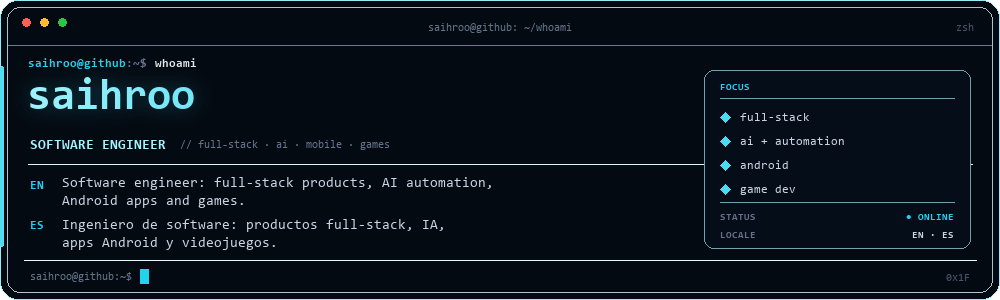
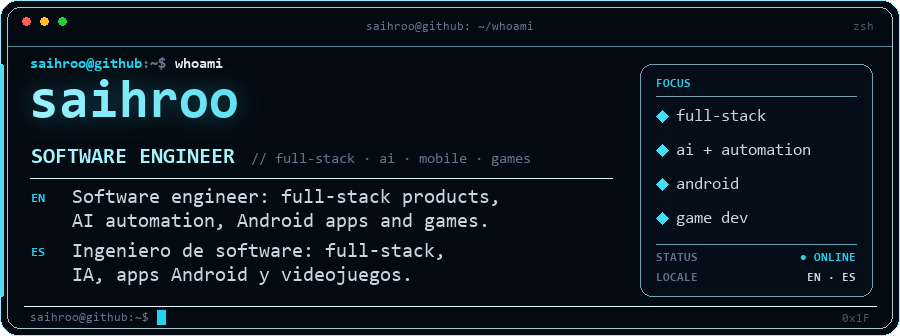
style: enlarge text in hero and whoami for 530px readme

Changed region(s): [[0.0, 0.0, 1.0, 1.0]]

diff --git a/make_assets.py b/make_assets.py
@@ -159,7 +159,7 @@ def build_avatar(size=204, pixels=102):
 # Hero banner
 # ---------------------------------------------------------------------------
 
-HERO_W, HERO_H = 1000, 300
+HERO_W, HERO_H = 900, 300
 HERO_FRAMES = 24
 HERO_MS = 100
 
@@ -168,9 +168,9 @@ def build_hero():
     name_font = font(FONT_BOLD, 74)
     prompt_font = font(FONT_BOLD, 13)
     meta_font = font(FONT_REG, 12)
-    role_font = font(FONT_BOLD, 15)
-    desc_font = font(FONT_REG, 14)
-    status_font = font(FONT_REG, 12)
+    role_font = font(FONT_BOLD, 24)
+    desc_font = font(FONT_REG, 21)
+    status_font = font(FONT_REG, 17)
 
     card = vertical_gradient((HERO_W, HERO_H), BG_TOP, BG_BOTTOM).convert("RGBA")
     draw = ImageDraw.Draw(card)
@@ -221,37 +221,37 @@ def build_hero():
     name_glow_mask = name_mask.filter(ImageFilter.GaussianBlur(14))
 
     # copy
-    draw.text((36, 181), "SOFTWARE ENGINEER", font=role_font, fill=CYAN_LIGHT)
+    draw.text((36, 174), "SOFTWARE ENGINEER", font=role_font, fill=CYAN_LIGHT)
     draw.text(
-        (37, 207),
-        "Full-Stack  ·  AI + Automation  ·  Android  ·  Game Dev",
+        (37, 206),
+        "Full-Stack · AI · Android · Game Dev",
         font=desc_font,
         fill=(148, 163, 184),
     )
-    draw.line([(36, 232), (560, 232)], fill=(34, 211, 238, 35))
-    draw.text((38, 248), ">", font=status_font, fill=CYAN)
-    draw.text((52, 248), "stack", font=status_font, fill=SLATE_DARK)
+    draw.line([(36, 238), (540, 238)], fill=(34, 211, 238, 35))
+    draw.text((38, 252), ">", font=status_font, fill=CYAN)
+    draw.text((53, 252), "stack", font=status_font, fill=SLATE_DARK)
     draw.text(
-        (92, 248),
+        (106, 252),
         "TypeScript · Kotlin · Python · C# · Luau",
         font=status_font,
         fill=(203, 213, 225),
     )
 
     # decorative bits
-    draw.text((636, 82), "{ }", font=font(FONT_BOLD, 18), fill=(103, 232, 249, 120))
-    draw.text((648, 214), "=>", font=font(FONT_BOLD, 15), fill=(129, 140, 248, 110))
-    draw.text((660, 250), "0x1F", font=font(FONT_REG, 11), fill=(100, 116, 139, 130))
+    draw.text((568, 84), "{ }", font=font(FONT_BOLD, 18), fill=(103, 232, 249, 120))
+    draw.text((580, 214), "=>", font=font(FONT_BOLD, 15), fill=(129, 140, 248, 110))
+    draw.text((592, 250), "0x1F", font=font(FONT_REG, 11), fill=(100, 116, 139, 130))
     draw.text(
         (HERO_W - 32, 270),
         "locale: en / es",
-        font=font(FONT_REG, 10),
+        font=font(FONT_REG, 12),
         fill=(71, 85, 105),
         anchor="ra",
     )
 
     # avatar
-    cx, cy = 842, 168
+    cx, cy = 752, 168
     avatar, avatar_mask = build_avatar()
     ax, ay = cx - avatar.width // 2, cy - avatar.height // 2
 
@@ -280,13 +280,13 @@ def build_hero():
     rd.text(
         (cx - 120, cy - 108),
         "ID 00",
-        font=font(FONT_REG, 10),
+        font=font(FONT_REG, 12),
         fill=(100, 116, 139, 190),
     )
     rd.text(
         (cx + 120, cy - 108),
         "● ONLINE",
-        font=font(FONT_REG, 10),
+        font=font(FONT_REG, 12),
         fill=CYAN + (170,),
         anchor="ra",
     )
@@ -402,18 +402,19 @@ def build_hero():
 # Whoami card
 # ---------------------------------------------------------------------------
 
-WHO_W, WHO_H = 1000, 300
+WHO_W, WHO_H = 900, 336
 
 
 def build_whoami():
-    prompt_font = font(FONT_BOLD, 12)
-    name_font = font(FONT_BOLD, 44)
-    role_font = font(FONT_BOLD, 14)
-    body_font = font(FONT_REG, 14)
-    tag_font = font(FONT_BOLD, 12)
-    meta_font = font(FONT_REG, 11)
-    focus_font = font(FONT_REG, 12)
-    label_font = font(FONT_BOLD, 10)
+    prompt_font = font(FONT_BOLD, 15)
+    name_font = font(FONT_BOLD, 54)
+    role_font = font(FONT_BOLD, 22)
+    sub_font = font(FONT_REG, 15)
+    body_font = font(FONT_REG, 20)
+    tag_font = font(FONT_BOLD, 13)
+    meta_font = font(FONT_REG, 12)
+    focus_font = font(FONT_REG, 17)
+    label_font = font(FONT_BOLD, 12)
 
     img = Image.new("RGBA", (WHO_W, WHO_H), (0, 0, 0, 0))
     draw = ImageDraw.Draw(img)
@@ -431,113 +432,107 @@ def build_whoami():
         outline=(21, 94, 117, 90),
         width=1,
     )
-    draw.line([(8, 45), (WHO_W - 9, 45)], fill=(22, 78, 99, 180))
+    draw.line([(8, 46), (WHO_W - 9, 46)], fill=(22, 78, 99, 180))
 
     for cx, color in ((26, (255, 95, 87)), (44, (254, 188, 46)), (62, (40, 200, 64))):
-        draw.ellipse([cx - 4, 18, cx + 4, 26], fill=color)
+        draw.ellipse([cx - 4, 17, cx + 4, 25], fill=color)
     draw.text(
-        (WHO_W / 2, 22),
+        (WHO_W / 2, 21),
         "saihroo@github: ~/whoami",
         font=meta_font,
         fill=(100, 116, 139),
         anchor="ma",
     )
-    draw.text((WHO_W - 26, 22), "zsh", font=meta_font, fill=(71, 85, 105), anchor="ra")
+    draw.text((WHO_W - 26, 21), "zsh", font=meta_font, fill=(71, 85, 105), anchor="ra")
 
     # accent rail
-    draw.rounded_rectangle([0, 66, 3, 246], radius=2, fill=CYAN + (200,))
+    draw.rounded_rectangle([0, 64, 3, 296], radius=2, fill=CYAN + (200,))
 
     # prompt
-    draw.text((28, 58), "saihroo@github", font=prompt_font, fill=CYAN)
+    draw.text((30, 56), "saihroo@github", font=prompt_font, fill=CYAN)
     prompt_w = draw.textlength("saihroo@github", font=prompt_font)
-    draw.text((28 + prompt_w, 58), ":~$", font=prompt_font, fill=SLATE)
-    cmd_x = 28 + prompt_w + draw.textlength(":~$", font=prompt_font) + 8
-    draw.text((cmd_x, 58), "whoami", font=prompt_font, fill=TEXT)
+    draw.text((30 + prompt_w, 56), ":~$", font=prompt_font, fill=SLATE)
+    cmd_x = 30 + prompt_w + draw.textlength(":~$", font=prompt_font) + 9
+    draw.text((cmd_x, 56), "whoami", font=prompt_font, fill=TEXT)
 
     # name
-    name_mask = text_mask((WHO_W, WHO_H), (27, 76), "saihroo", name_font)
+    name_mask = text_mask((WHO_W, WHO_H), (29, 76), "saihroo", name_font)
     name_grad = gradient_fill((WHO_W, WHO_H), [CYAN_LIGHT, CYAN, CYAN_MID])
-    name_glow = name_mask.filter(ImageFilter.GaussianBlur(10))
+    name_glow = name_mask.filter(ImageFilter.GaussianBlur(12))
     glow_color = Image.new("RGBA", img.size, CYAN + (255,))
-    glow_color.putalpha(name_glow.point(lambda v: int(v * 0.32)))
+    glow_color.putalpha(name_glow.point(lambda v: int(v * 0.34)))
     img.alpha_composite(glow_color)
     img.paste(name_grad, (0, 0), name_mask)
 
-    # role
-    draw.text((30, 138), "SOFTWARE ENGINEER", font=role_font, fill=CYAN_LIGHT)
+    # role + subtitle
+    draw.text((31, 146), "SOFTWARE ENGINEER", font=role_font, fill=CYAN_LIGHT)
     role_w = draw.textlength("SOFTWARE ENGINEER", font=role_font)
     draw.text(
-        (30 + role_w + 14, 139),
+        (31 + role_w + 16, 151),
         "// full-stack · ai · mobile · games",
-        font=meta_font,
+        font=sub_font,
         fill=SLATE,
     )
-    draw.line([(28, 164), (972, 164)], fill=(34, 211, 238, 40))
+    draw.line([(30, 178), (612, 178)], fill=(34, 211, 238, 45))
 
     # bilingual bio
-    draw.text((30, 180), "EN", font=tag_font, fill=CYAN)
+    draw.text((31, 192), "EN", font=tag_font, fill=CYAN)
     draw.text(
-        (62, 176),
-        "Software engineer: full-stack products, AI automation,",
+        (72, 188),
+        "Software engineer: full-stack products,",
         font=body_font,
         fill=(203, 213, 225),
     )
     draw.text(
-        (62, 194),
-        "Android apps and games.",
+        (72, 212),
+        "AI automation, Android apps and games.",
         font=body_font,
         fill=(203, 213, 225),
     )
-    draw.text((30, 220), "ES", font=tag_font, fill=CYAN)
+    draw.text((31, 246), "ES", font=tag_font, fill=CYAN)
     draw.text(
-        (62, 218),
-        "Ingeniero de software: productos full-stack, IA,",
+        (72, 242),
+        "Ingeniero de software: full-stack,",
         font=body_font,
         fill=(203, 213, 225),
     )
     draw.text(
-        (62, 236),
-        "apps Android y videojuegos.",
+        (72, 266),
+        "IA, apps Android y videojuegos.",
         font=body_font,
         fill=(203, 213, 225),
     )
 
     # focus panel
     draw.rounded_rectangle(
-        [704, 70, 970, 248],
-        radius=10,
+        [640, 64, 872, 296],
+        radius=12,
         fill=(5, 14, 24, 255),
         outline=(21, 94, 117, 150),
         width=1,
     )
-    draw.text((720, 82), "FOCUS", font=label_font, fill=CYAN)
-    draw.line([(720, 98), (954, 98)], fill=(21, 94, 117, 150))
+    draw.text((656, 78), "FOCUS", font=label_font, fill=CYAN)
+    draw.line([(656, 96), (856, 96)], fill=(21, 94, 117, 150))
     focus = ["full-stack", "ai + automation", "android", "game dev"]
     for i, item in enumerate(focus):
-        y = 112 + i * 24
+        y = 110 + i * 34
         draw.polygon(
-            [(720, y + 5), (725, y), (730, y + 5), (725, y + 10)],
+            [(656, y + 6), (662, y), (668, y + 6), (662, y + 12)],
             fill=CYAN + (210,),
         )
-        draw.text((740, y), item, font=focus_font, fill=(203, 213, 225))
-    draw.line([(720, 202), (954, 202)], fill=(21, 94, 117, 150))
-    draw.text((720, 212), "STATUS", font=label_font, fill=SLATE)
-    draw.text(
-        (954, 212),
-        "● ONLINE",
-        font=label_font,
-        fill=CYAN,
-        anchor="ra",
-    )
-    draw.text((720, 230), "LOCALE", font=label_font, fill=SLATE)
-    draw.text((954, 230), "EN · ES", font=label_font, fill=(203, 213, 225), anchor="ra")
+        draw.text((676, y - 2), item, font=focus_font, fill=(203, 213, 225))
+    draw.line([(656, 244), (856, 244)], fill=(21, 94, 117, 150))
+    draw.text((656, 252), "STATUS", font=label_font, fill=SLATE)
+    draw.text((856, 252), "● ONLINE", font=label_font, fill=CYAN, anchor="ra")
+    draw.text((656, 272), "LOCALE", font=label_font, fill=SLATE)
+    draw.text((856, 272), "EN · ES", font=label_font, fill=(203, 213, 225), anchor="ra")
 
     # footer prompt
-    draw.line([(24, 260), (976, 260)], fill=(34, 211, 238, 30))
-    draw.text((30, 271), "saihroo@github:~$", font=meta_font, fill=SLATE)
+    draw.line([(24, 306), (876, 306)], fill=(34, 211, 238, 30))
+    draw.text((30, 312), "saihroo@github:~$", font=meta_font, fill=SLATE)
     foot_w = draw.textlength("saihroo@github:~$", font=meta_font)
-    draw.rectangle([30 + foot_w + 8, 269, 30 + foot_w + 16, 283], fill=CYAN)
-    draw.text((970, 272), "0x1F", font=meta_font, fill=(71, 85, 105), anchor="ra")
+    draw.rectangle([30 + foot_w + 8, 310, 30 + foot_w + 16, 324], fill=CYAN)
+    draw.text((870, 313), "0x1F", font=meta_font, fill=(71, 85, 105), anchor="ra")
 
     out = os.path.join(ASSETS, "whoami.png")
     img.save(out, optimize=True)

diff --git a/README.md b/README.md
@@ -1,6 +1,6 @@
 <div align="center">
 
-<img src="https://raw.githubusercontent.com/saihroo/saihroo/main/assets/hero.gif?v=3" width="100%" alt="saihroo — Software Engineer" />
+<img src="https://raw.githubusercontent.com/saihroo/saihroo/main/assets/hero.gif?v=4" width="100%" alt="saihroo — Software Engineer" />
 
 <a href="https://github.com/saihroo">
   <img src="https://raw.githubusercontent.com/saihroo/saihroo/main/assets/typing.gif?v=3" width="760" alt="Software Engineer · Full-Stack Developer · AI + Automation · Android Developer · Game Developer" />
@@ -22,7 +22,7 @@
 ## `$ whoami`
 
 <p align="center">
-  <img src="https://raw.githubusercontent.com/saihroo/saihroo/main/assets/whoami.png?v=1" width="100%" alt="Terminal card with the profile of saihroo, Software Engineer. EN: full-stack products, AI automation, Android apps and games. ES: productos full-stack, IA, apps Android y videojuegos." />
+  <img src="https://raw.githubusercontent.com/saihroo/saihroo/main/assets/whoami.png?v=2" width="100%" alt="Terminal card with the profile of saihroo, Software Engineer. EN: full-stack products, AI automation, Android apps and games. ES: productos full-stack, IA, apps Android y videojuegos." />
 </p>
 
 ---
